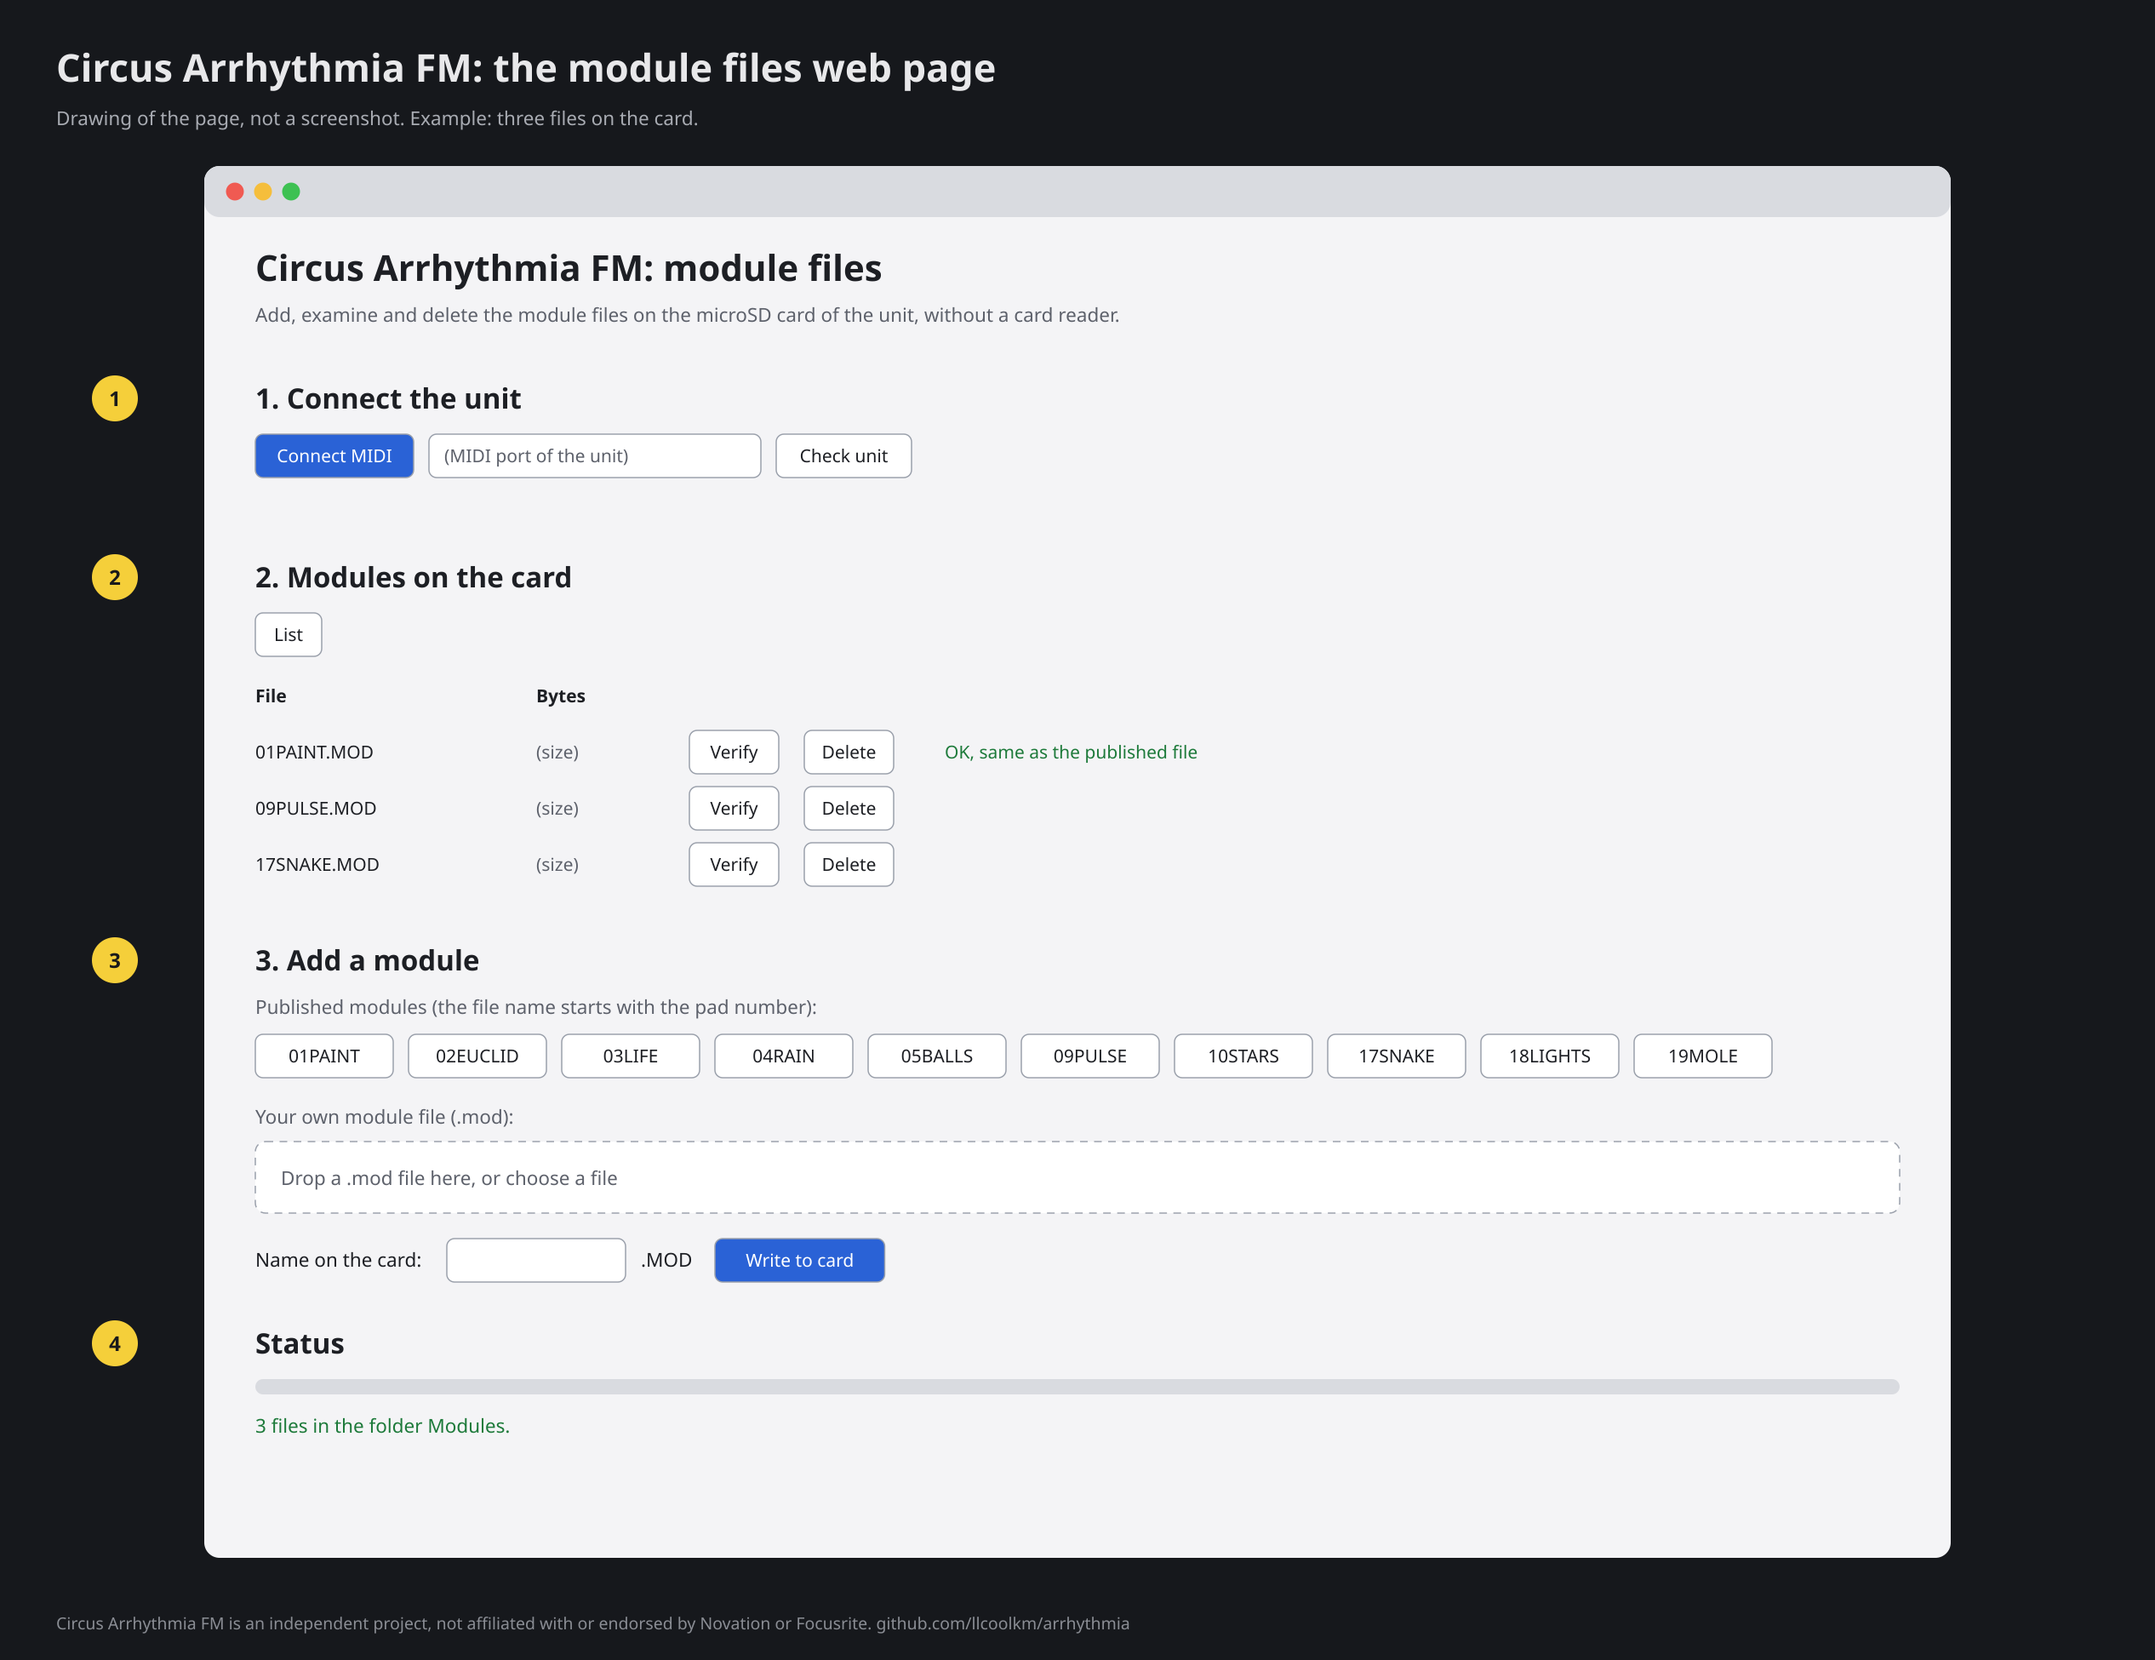
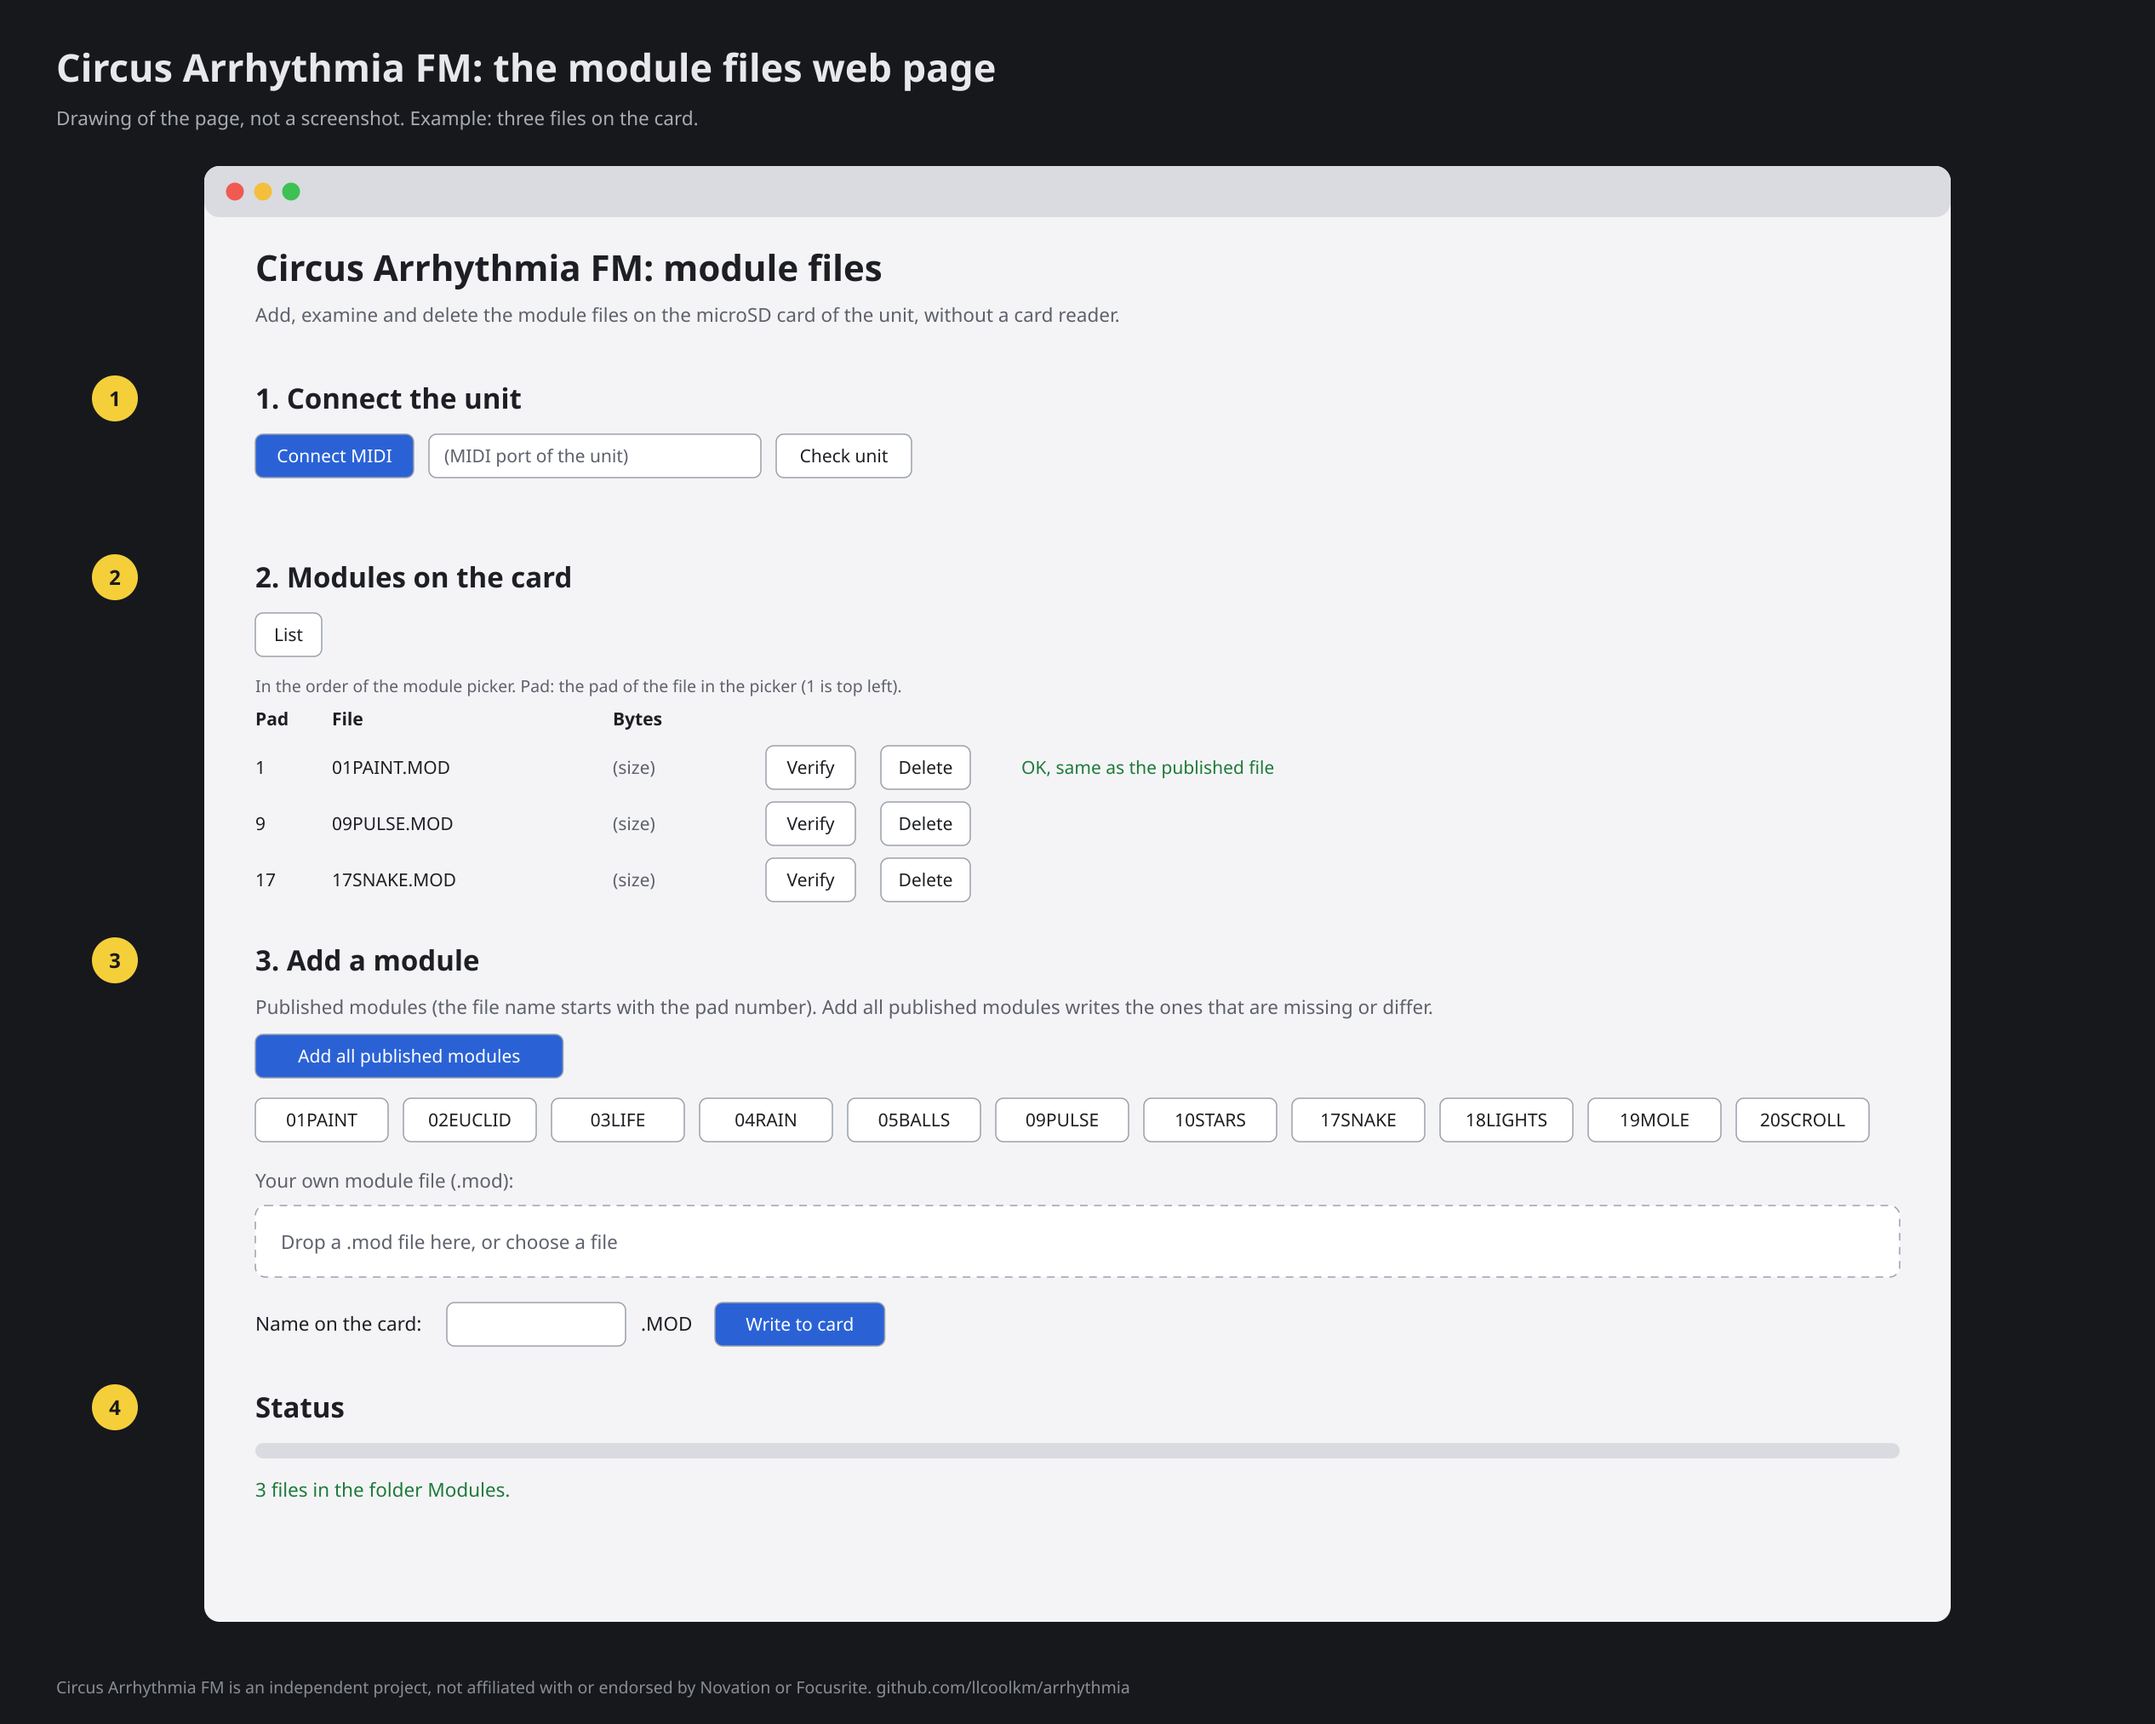
Module page: Add all published modules in one run

diff --git a/web/modules.html b/web/modules.html
@@ -86,7 +86,10 @@ tidies its helper files (NAME.TMP, NAME.OLD) left by an interrupted write.</p>
 
 <section>
 <h2>3. Add a module</h2>
-<p>Published modules (the file name starts with the pad number):</p>
+<p>Published modules (the file name starts with the pad number). <b>Add all published modules</b> writes every
+published module that is not on the card yet, or that differs from the published file. It skips the modules that
+are on the card with the same size and CRC. It stops at the first refusal or error.</p>
+<div class="row"><button id="addall" class="primary" data-need-unit="1">Add all published modules</button></div>
 <div class="row" id="published"></div>
 <p>Your own module file (.mod):</p>
 <div id="drop">Drop a .mod file here, or <input type="file" id="pick" accept=".mod"></div>
@@ -547,22 +550,28 @@ function pickerOrder(entries, capped = false) {
 // lost(error) (the link is gone). A failure stays the last status: no new job starts after it.
 const WARN = ['busy', 'running', 'unknown', 'pending'];
 class Actions {
-  constructor(ui) { this.ui = ui; this.running = false; this.entries = null; }
-  async act(what, fn) {
-    if (this.running) return { ok: false };
-    const c = await this.ui.card();
-    if (!c) return { ok: false };
-    this.running = true; this.ui.busy(true); this.ui.status(`${what}...`);
-    try { return { ok: true, value: await fn(c) }; }
+  constructor(ui) { this.ui = ui; this.running = false; this.batch = null; this.entries = null; }
+  // Free for a new action: nothing runs and no batch owns the unit (or the caller is that batch).
+  free(tok) { return !this.running && (!this.batch || this.batch === tok); }
+  // One action. The claim is taken before the first await, so a second click cannot pass the guard meanwhile.
+  async act(what, fn, tok) {
+    if (!this.free(tok)) return { ok: false, refused: true };
+    this.running = true; this.ui.busy(true);
+    try {
+      const c = await this.ui.card();
+      if (!c) return { ok: false };
+      this.ui.status(`${what}...`);
+      return { ok: true, value: await fn(c) };
+    }
     catch (e) {
       const cls = WARN.includes(e.kind) ? 'warn' : 'bad';
       this.ui.status(e.message, cls); this.ui.log(`${what}: ${e.message}`, cls);
       if (this.ui.lost) this.ui.lost(e);
       return { ok: false, error: e };
-    } finally { this.running = false; this.ui.busy(false); }
+    } finally { this.running = false; this.ui.busy(!!this.batch); }
   }
-  async list(before = '') {
-    const r = await this.act('List', c => c.list());
+  async list(before = '', tok) {
+    const r = await this.act('List', c => c.list(), tok);
     if (r.ok) {
       this.entries = pickerOrder(r.value.files, r.value.capped); this.entries.capped = r.value.capped;
       const n = this.entries.length;
@@ -572,6 +581,7 @@ class Actions {
     return r;
   }
   async del(name) {
+    if (!this.free()) return { ok: false, refused: true };
     if (!this.ui.confirm(`Delete ${name}.MOD from the card? This cannot be undone.`)) return { ok: false };
     const r = await this.act(`Delete ${name}.MOD`, c => c.del(name));
     if (!r.ok) return r;                             // the error stays; no list
@@ -582,6 +592,7 @@ class Actions {
   // Before BEGIN: one verify of the target name, fresh (the last list can be out of date or capped at 32 files).
   // Not found: write. Found: ask, with the live size and CRC. Any other result: stop, nothing is written.
   async write(blob, name) {
+    if (!this.free()) return { ok: false, refused: true };
     try { checkModule(blob); nameBytes(name); }
     catch (e) { this.ui.status(e.message, 'bad'); return { ok: false, error: e }; }
     const f = `${name}.MOD`;
@@ -599,6 +610,60 @@ class Actions {
     await this.list(`Wrote ${f}: ${w.size} bytes, CRC ${hex8(w.crc)}. The unit checked the file at commit and read the ` +
                     'card file back: size and CRC-32 match. ');
     return r;
+  }
+  // Add all published modules: one question, every file fetched first (a fetch failure sends nothing), a fresh
+  // list, then for each module one VERIFY of its name: the same size and CRC skips it, anything else writes it (and
+  // the write verifies it). The first failure of any kind (refusal, error, lost reply) stops the run: nothing more is
+  // sent and the error stays. The run owns the unit from the click to the end of the final list (taken before the
+  // first await, released once): every other action is refused meanwhile. names: card names; blob(name): the file.
+  async addAll(names, blob) {
+    if (!this.free()) return { ok: false, refused: true };
+    const tok = {};
+    this.batch = tok; this.ui.busy(true);
+    const done = { written: [], present: [], failed: [] };
+    const line = () => {
+      const left = names.length - done.written.length - done.present.length - done.failed.length;
+      return `${done.written.length} written, ${done.present.length} already on the card, ${done.failed.length} failed` +
+             (left > 0 ? `, ${left} not done` : '');
+    };
+    const end = (head, r, cls) => {
+      const msg = `${head}: ${r.error ? r.error.message : 'not started'} ${line()}.`;
+      this.ui.status(msg, cls || (r.error && WARN.includes(r.error.kind) ? 'warn' : 'bad')); this.ui.log(msg, 'bad');
+      return msg;
+    };
+    try {
+      if (!this.ui.confirm(`Write the ${names.length} published modules to the card? A module that is on the card ` +
+                           'with the same size and CRC is skipped. A file with the name of a published module and ' +
+                           'other content is replaced.')) return { ok: false, done };
+      const files = [];
+      try {
+        for (const n of names) { const b = await blob(n); checkModule(b); files.push([n, b]); }
+      } catch (e) {
+        this.ui.status(`Nothing sent to the unit. ${e.message}`, 'bad');
+        return { ok: false, done, error: e };
+      }
+      const l = await this.list('', tok);
+      if (!l.ok) { end('Add all stopped: the list of the card failed', l); return { ok: false, done, error: l.error }; }
+      for (const [n, b] of files) {
+        const crc = crc32(b) >>> 0;
+        const pre = await this.act(`Examine ${n}.MOD`, c => c.exists(n), tok);
+        if (!pre.ok) { done.failed.push(n); end(`Add all stopped at ${n}.MOD`, pre); return { ok: false, done, error: pre.error }; }
+        if (pre.value && pre.value.size === b.length && pre.value.crc === crc) {
+          done.present.push(n); this.ui.log(`${n}.MOD already on the card`); continue;
+        }
+        const w = await this.act(`Write ${n}.MOD`, c => c.write(b, n), tok);
+        if (!w.ok) { done.failed.push(n); end(`Add all stopped at ${n}.MOD`, w); return { ok: false, done, error: w.error }; }
+        done.written.push(n);
+        this.ui.log(`${pre.value ? 'replaced' : 'wrote'} ${n}.MOD, ${w.value.size} bytes, CRC ${hex8(w.value.crc)}`, 'ok');
+      }
+      const f = await this.list(`Add all: ${line()}. `, tok);
+      if (!f.ok) {                                   // the writes stand; only the refresh failed (no retry)
+        const msg = `Add all: ${line()}. The list of the card after it failed: ${f.error ? f.error.message : 'not started'}`;
+        this.ui.status(msg, f.error && WARN.includes(f.error.kind) ? 'warn' : 'bad'); this.ui.log(msg, 'bad');
+        return { ok: false, done, refreshError: f.error || null };
+      }
+      return { ok: true, done };
+    } finally { this.batch = null; this.ui.busy(false); }
   }
   async verify(name) { return this.act(`Verify ${name}.MOD`, c => c.verify(name)); }
   async reconcile() {                                // no list after it: List is the user's choice
@@ -796,6 +861,8 @@ for (const f of ML.PUBLISHED) {
   };
   $('published').appendChild(b);
 }
+
+$('addall').onclick = () => actions.addAll(ML.PUBLISHED.map(ML.nameOf), published);
 
 async function takeFile(f) {
   const out = $('userfile'); out.innerHTML = ''; userBlob = null;

diff --git a/docs/user/modules.md b/docs/user/modules.md
@@ -52,7 +52,7 @@ The picker shows up to 32 module files, on pads 1 to 32. Pad 1 is top left, pads
 
 Open the page `web/modules.html` in Chrome.
 
-![The module files web page: connect the unit, list the files on the card, add a published module or your own file, status](img/web-modules.png)
+![The module files web page: connect the unit, list the files on the card in the order of the picker with their pads, add all published modules, one published module or your own file, status](img/web-modules.png)
 
 The page writes module files to the card over USB, without a card reader. It requires Chrome with Web MIDI and
 SysEx, and a firmware with the card writer. Without the card writer, the page sends nothing to the card.
@@ -68,6 +68,28 @@ SysEx, and a firmware with the card writer. Without the card writer, the page se
 4. **Status.** The page shows the progress and the result of the last job.
 
 A card command stops a running module.
+
+### Add all published modules
+
+**Add all published modules** puts all 11 published modules on the card with one push.
+
+1. Connect the unit and select **Check unit** (step 1 above). Stop playback.
+2. Select **Add all published modules**, then **OK** in the question.
+3. The page gets the 11 files from the web site. If it cannot get one of them, it stops and sends nothing to the unit.
+4. The page reads the list of files on the card.
+5. For each published module, the page examines the file with that name on the card:
+   * Same size and CRC as the published file: the page skips it.
+   * No such file, or other contents: the page writes the published file and reads it back.
+6. At the end, the status shows one line: the number of modules written, already on the card and failed. The list
+   shows the files on the card.
+
+If the unit refuses a request, or a request fails, the page stops at that module. It sends nothing more, and the
+status shows the error and the number of modules done. Remove the cause (for example, stop playback), then select
+**Add all published modules** again: the page skips the modules that are already on the card. If the status says
+that the outcome is unknown, select **Check status** first.
+
+Other files in the folder `Modules` stay on the card. A file with the name of a published module and other contents
+is replaced.
 
 ## Start and stop a module
 
